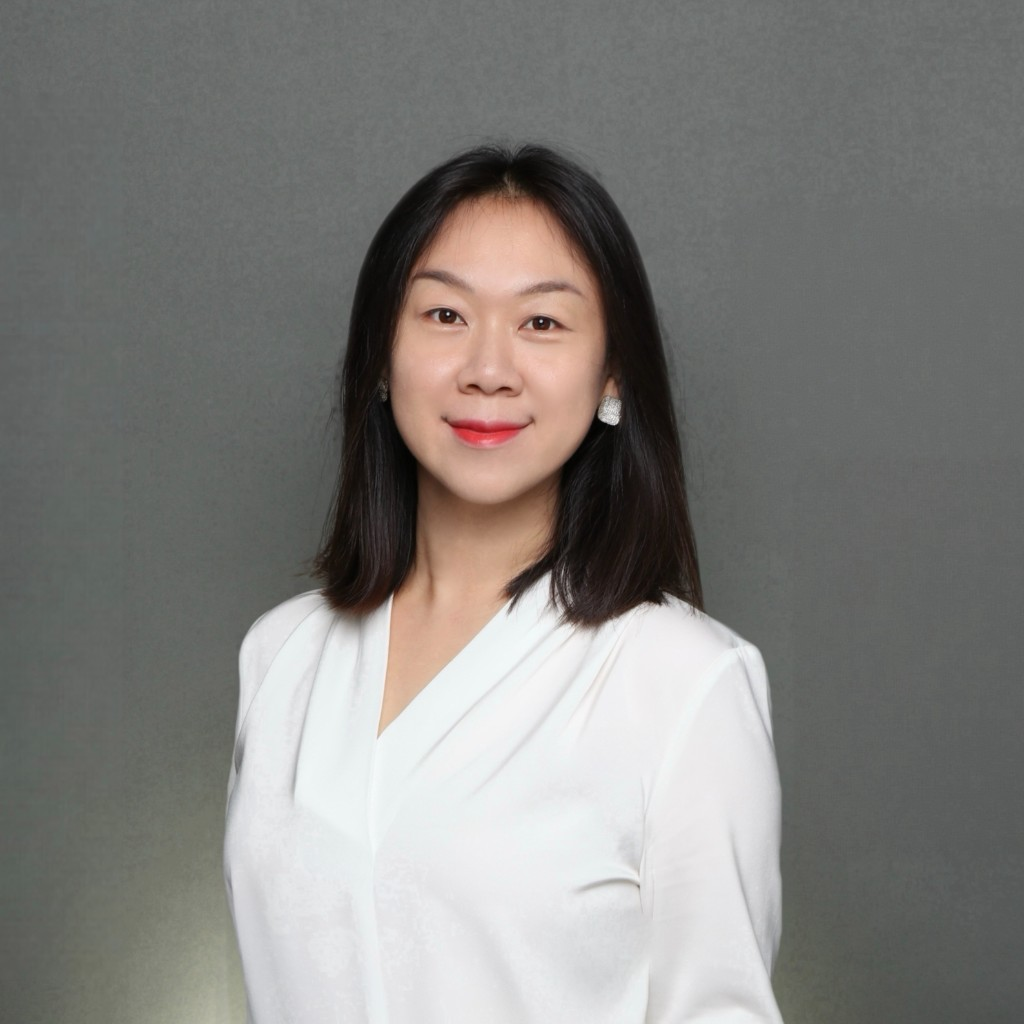
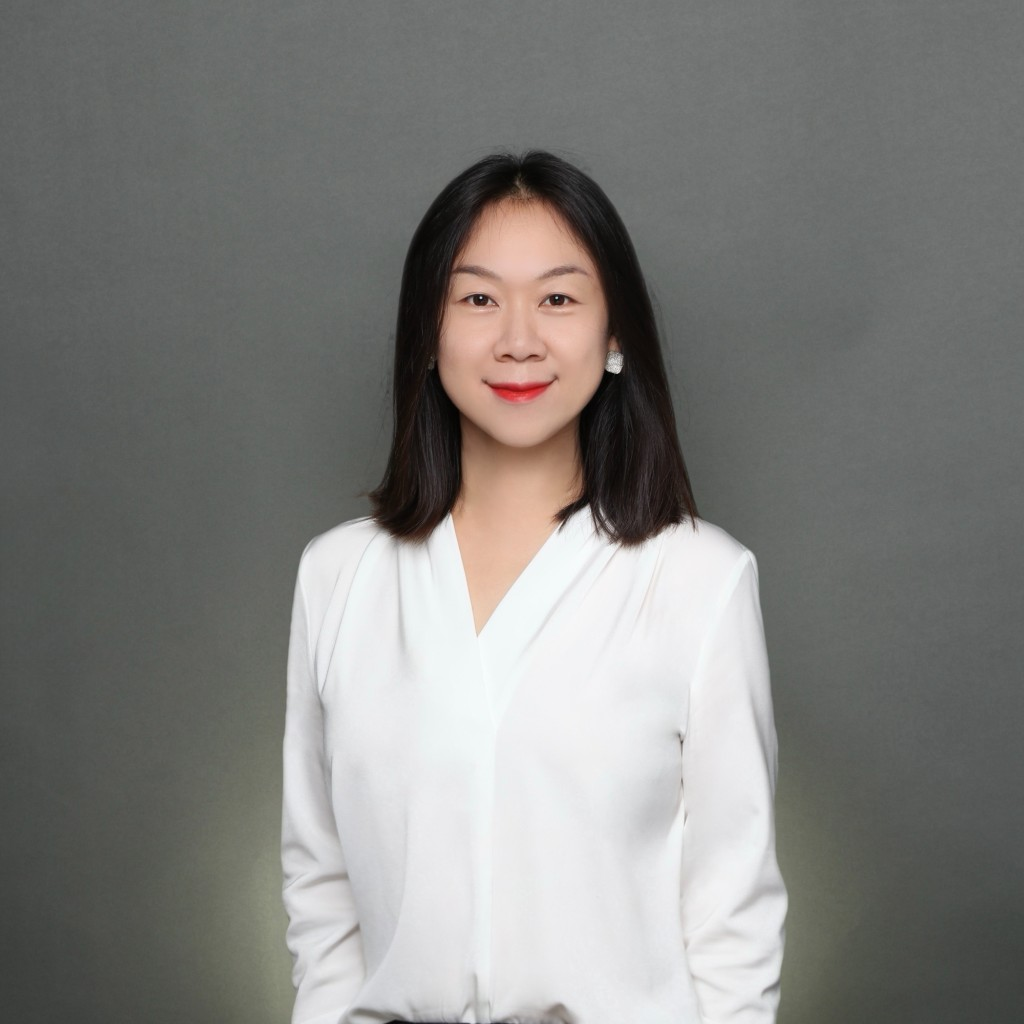
更换首页与 About 页 Monica 形象照。

diff --git a/client/src/pages/Home.tsx b/client/src/pages/Home.tsx
@@ -10,7 +10,7 @@ import { ArrowRight, Globe, Lightbulb, Users } from "lucide-react";
 import { Link } from "wouter";
 
 const HERO_EN = "https://d2xsxph8kpxj0f.cloudfront.net/310519663505942366/duFsqgJ3sLuqSVf7ShnPai/hero-en-C27JECFmTmMMGYA9GuYP8y.webp";
-const MONICA_PHOTO = "/images/monica-photo.jpg";
+const MONICA_PHOTO = "/images/monica-photo.jpg?v=2";
 const BLOG_IMG = "https://d2xsxph8kpxj0f.cloudfront.net/310519663505942366/duFsqgJ3sLuqSVf7ShnPai/blog-placeholder-gvyXKEAnHN7R9Pye7ZSrTM.webp";
 
 /* ===== Shared section components ===== */

diff --git a/client/src/pages/About.tsx b/client/src/pages/About.tsx
@@ -7,7 +7,7 @@ import { useScrollReveal } from "@/hooks/useScrollReveal";
 import { ArrowRight, Video, Radio, Linkedin } from "lucide-react";
 import { Link } from "wouter";
 
-const MONICA_PHOTO = "/images/monica-photo.jpg";
+const MONICA_PHOTO = "/images/monica-photo.jpg?v=2";
 
 export default function About() {
   const { lang, localePath } = useLanguage();
